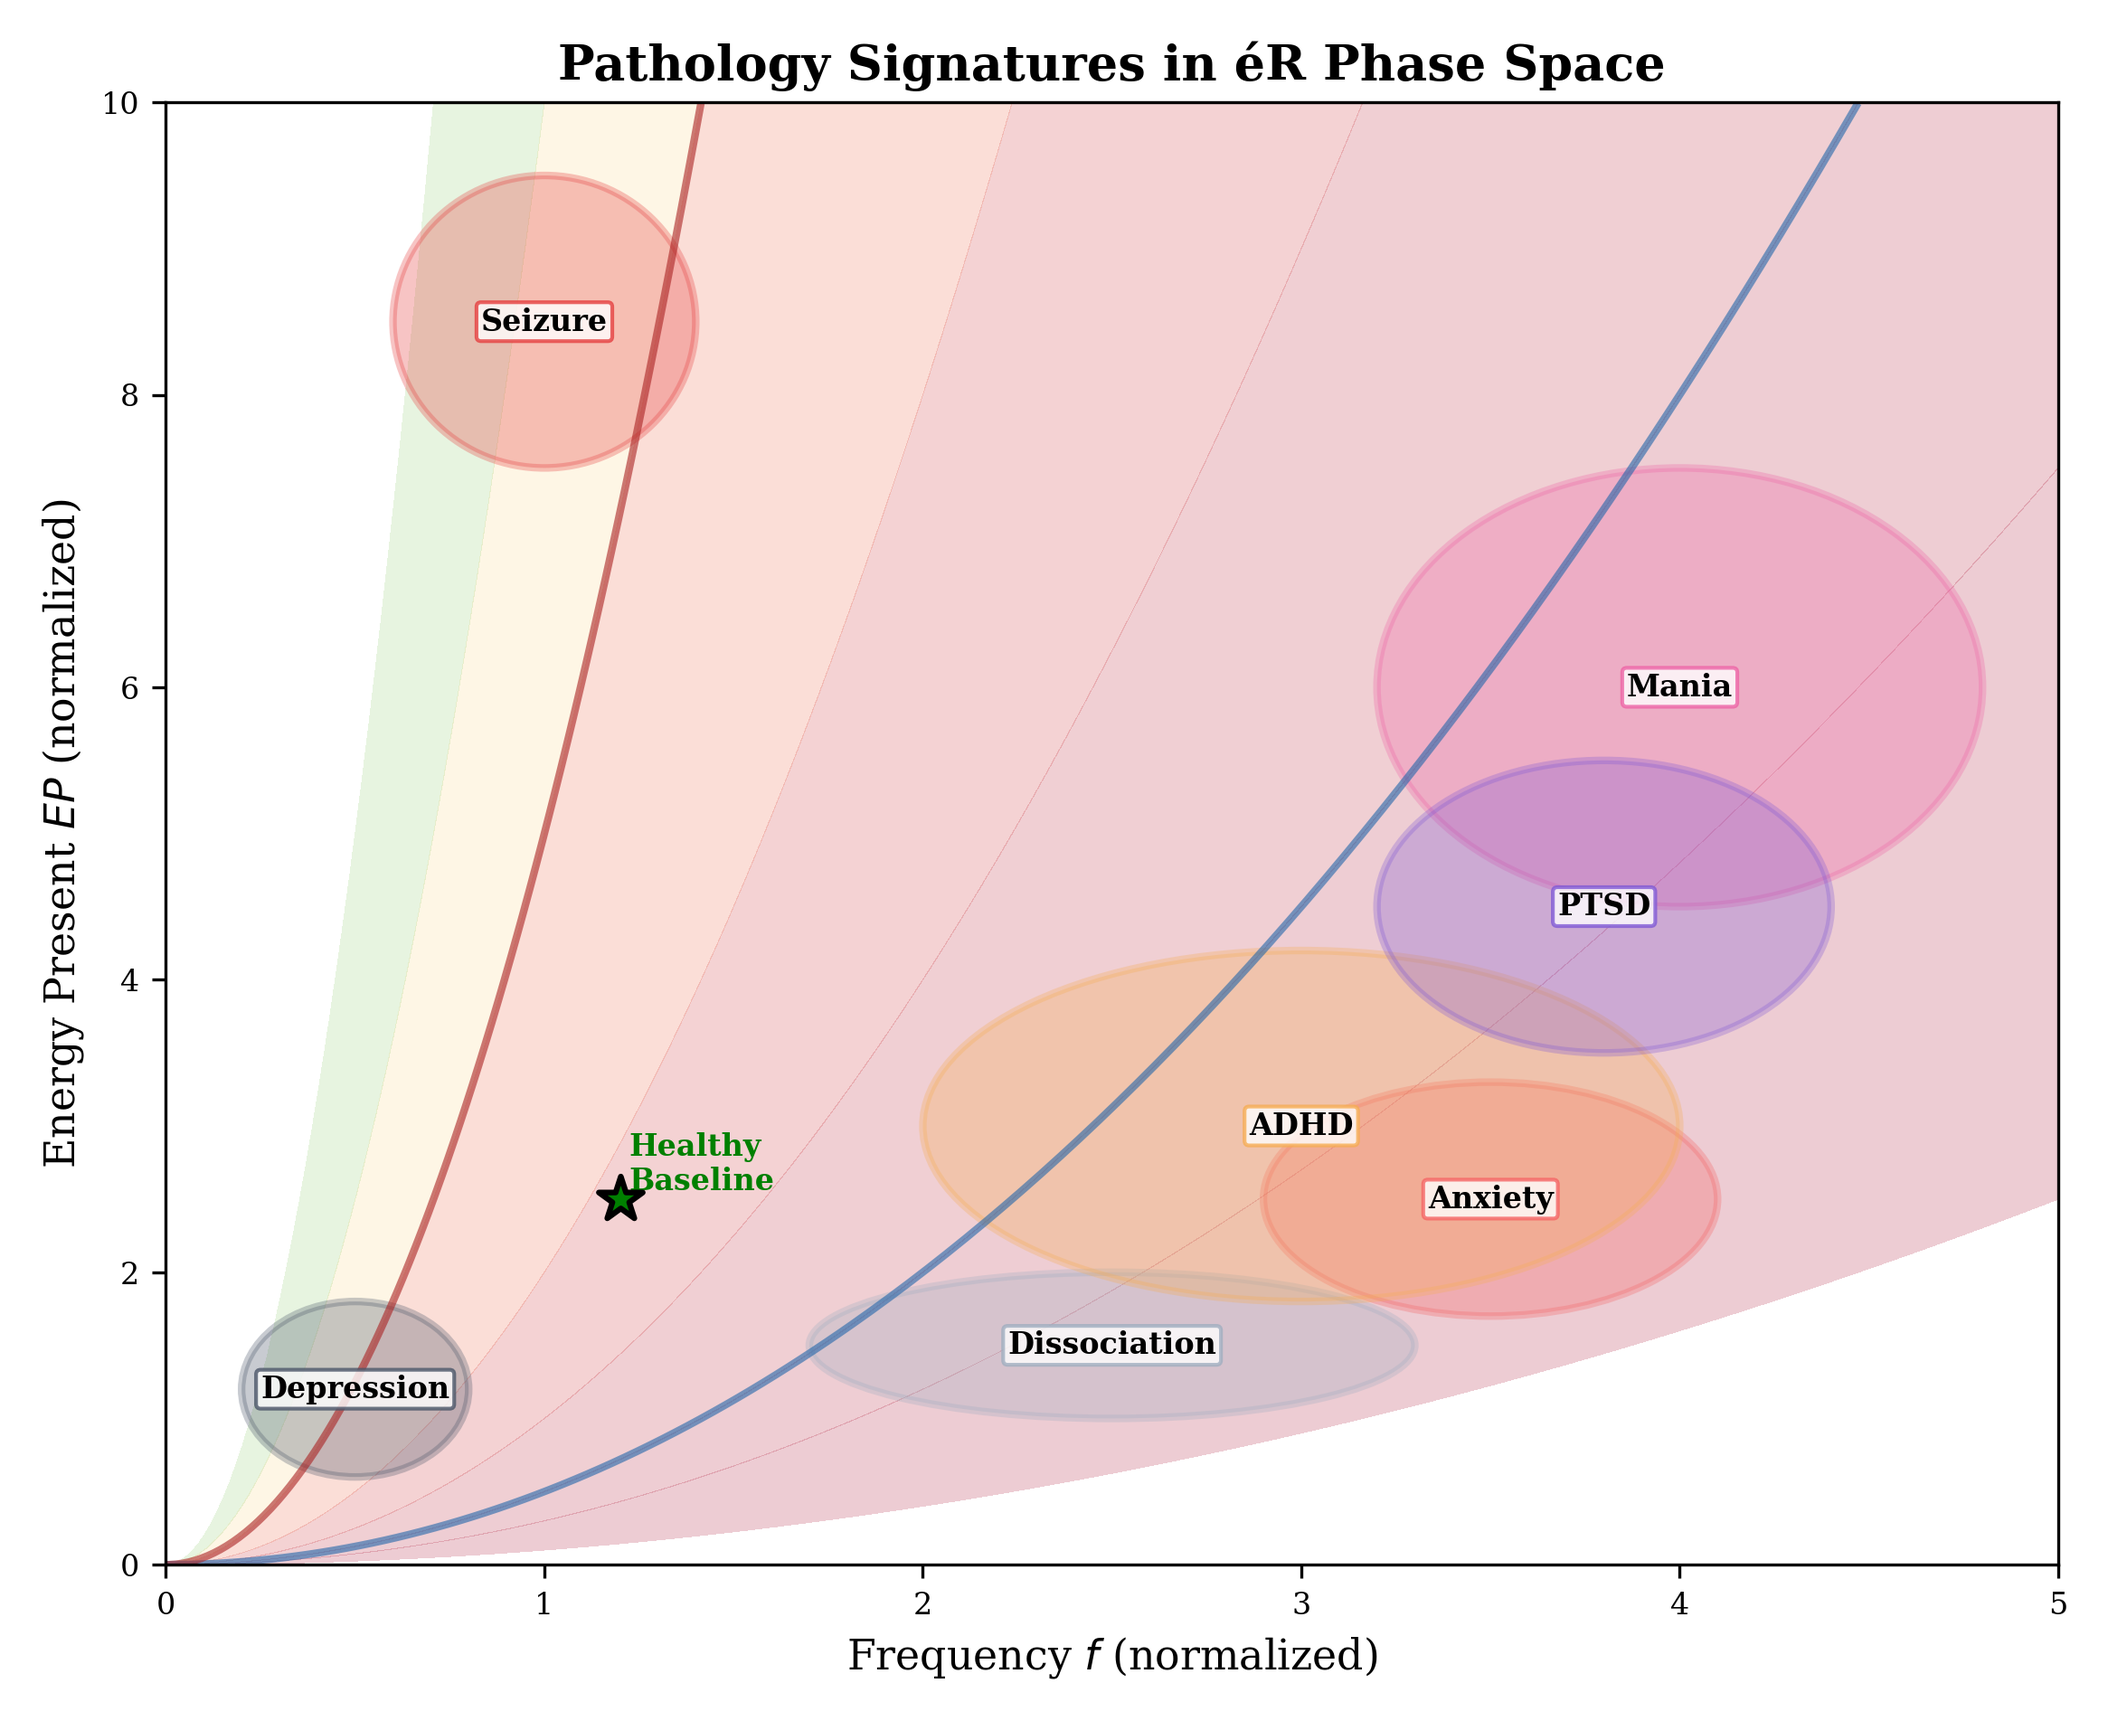
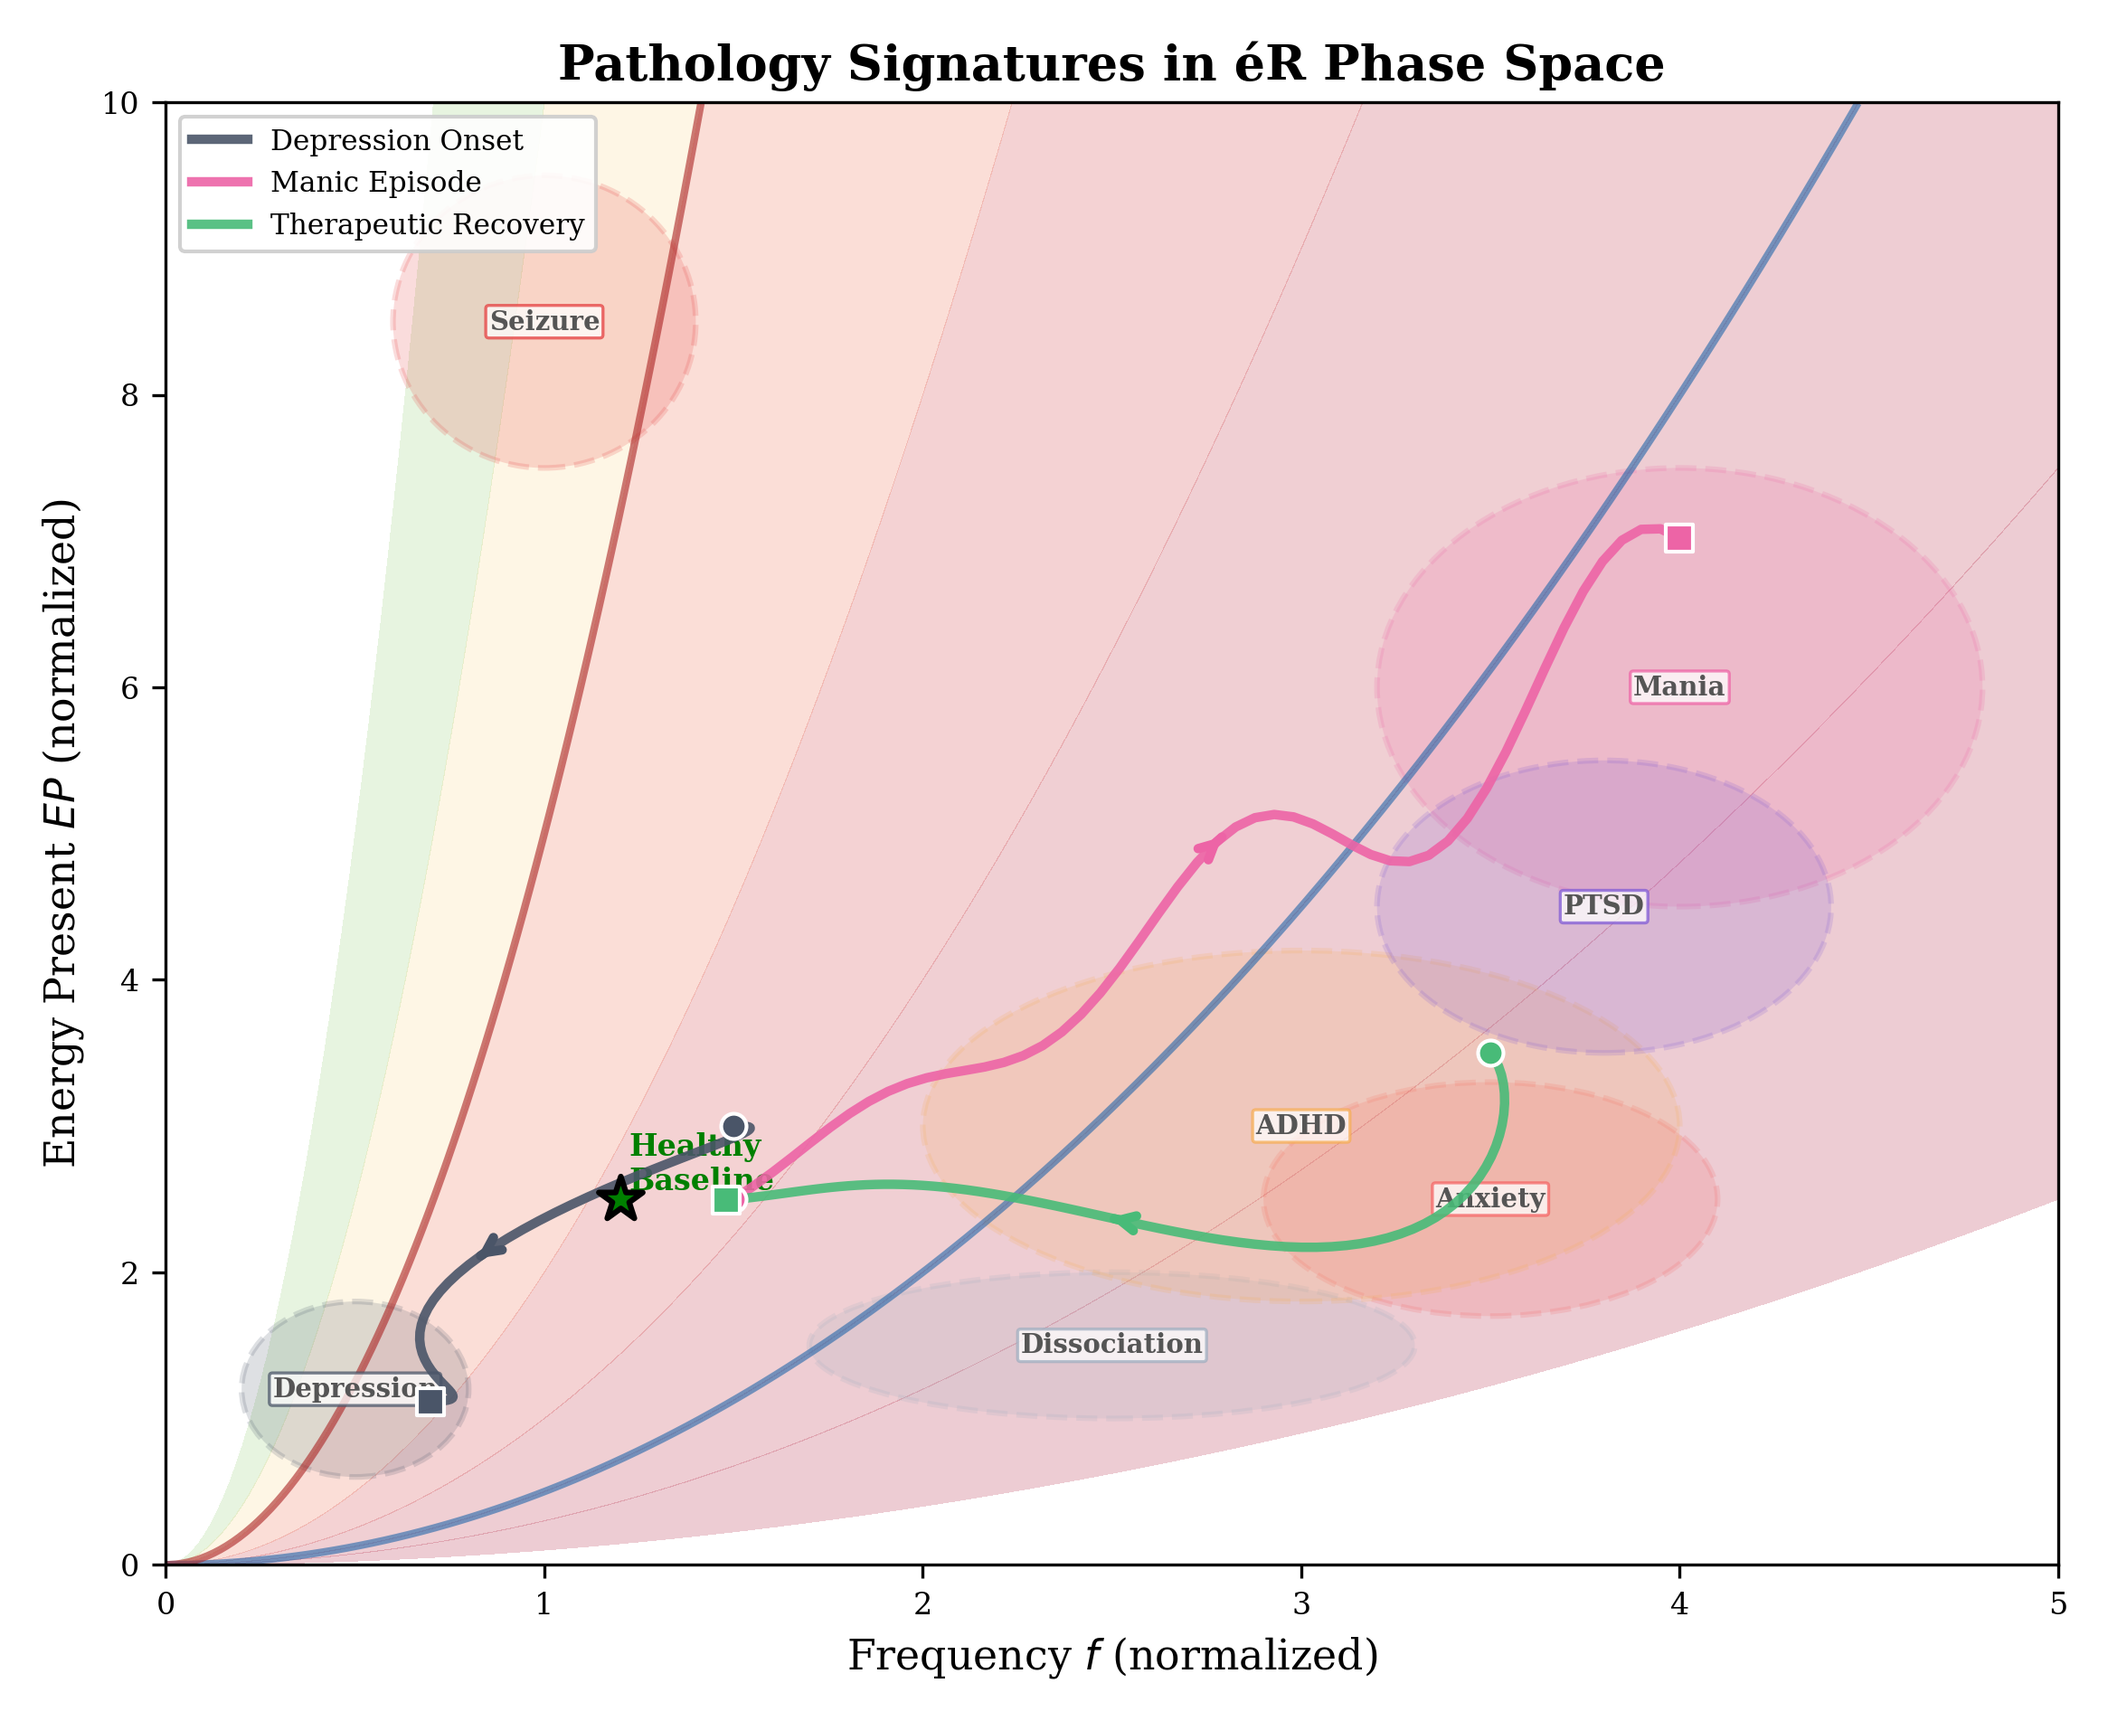
CLT Computational Implementation paper final polish

diff --git a/paper/clt_computational_implementation.tex b/paper/clt_computational_implementation.tex
@@ -16,11 +16,12 @@
 \title{Computational Implementation of Cosmic Loom Theory:\\Open-Source Tools for Consciousness Research}
 
 \author[1]{Rex Fraterne}
-\author[2]{Claude AI}
+\author[2]{Claude Opus 4.5}
 \affil[1]{NuTech / The Infinite Kingdom, Independent Research}
-\affil[2]{Anthropic}
+\affil[2]{Anthropic, AI Research}
 
-\date{January 2026}
+\date{January 2026\\[4pt]
+\normalsize Version: v1.0 (Zenodo release)}
 
 \begin{document}
 
@@ -29,6 +30,8 @@
 \begin{abstract}
 Understanding consciousness remains one of science's deepest challenges, yet most theoretical frameworks lack computational tools that translate formal postulates into testable, quantitative predictions. We present the first comprehensive open-source software suite implementing Cosmic Loom Theory (CLT) v1.1, a field-based framework that models biological consciousness as emergent coherence across coupled energetic substrates. The toolkit comprises five integrated modules: (1)~an Energy Resistance (\'{e}R) phase space visualizer mapping the viable consciousness window $0.5 \leq \text{\'{e}R} \leq 5.0$ from biological measurements; (2)~two-dimensional and three-dimensional Loomfield wave simulators solving the CLT wave equation via leapfrog finite-difference schemes with Mur absorbing boundary conditions; (3)~a Hodgkin--Huxley bioelectric network simulator with gap-junction coupling and morphogenetic pattern dynamics; (4)~a biophoton field simulator capturing four distinct emission regimes---Poissonian, coherent, squeezed, and chaotic---with Kuramoto phase synchronization; (5)~a microtubule quantum coherence simulator modeling 13-protofilament lattices across four oscillation scales with Floquet-driven time-crystal dynamics; and (6)~a DNA constraint engine governing gene expression, epigenetic modulation, and species-specific viable windows. Key results demonstrate that Loomfield coherence collapses under perturbation and recovers through hysteresis, bioelectric gap-junction networks spontaneously form morphogenetic patterns, biophoton Fano factor signatures distinguish healthy from pathological states, and microtubule triplet-of-triplets resonance at golden-ratio frequency ratios ($1:\varphi:\varphi^2$) is selectively disrupted by anesthetic modeling. All simulators produce the unified consciousness observable $C_\text{bio}$ and feed into a 14-metric LoomSense integration layer. The suite includes 277 automated tests across nine modules with continuous integration. All code is freely available at \texttt{github.com/DaKingRex/Cosmic-Loom-Theory} under an open-source license, providing the research community with reproducible tools for investigating consciousness as a physical phenomenon.
 \end{abstract}
+
+\noindent\textbf{Keywords:} consciousness, computational modeling, Loomfield, Energy Resistance, bioelectric fields, biophoton emission, microtubule time crystals, coherence metrics, open-source software, multi-substrate integration, falsifiability
 
 \tableofcontents
 \newpage
@@ -66,7 +69,7 @@ designed to address.
 
 \subsection*{Cosmic Loom Theory: A Brief Overview}
 
-Cosmic Loom Theory (CLT) v1.1 \citep{fraterne2026clt} proposes that
+Cosmic Loom Theory (CLT) v1.1 \citep{fraterne2026theory} proposes that
 consciousness is not a product of localized neural computation, but rather an
 emergent property of \emph{coherent dynamics} within a biological system's
 physical substrates. The theory introduces the \emph{Loomfield},
@@ -119,9 +122,9 @@ CLT. The platform provides:
 
     \item \textbf{Biological substrate simulators} for all four CLT substrates:
     bioelectric field dynamics (single-layer and multi-layer tissue models with
-    Hodgkin-Huxley ion channels and gap junction coupling), biophoton emission
+    Hodgkin--Huxley ion channels and gap junction coupling), biophoton emission
     (Poissonian, coherent, squeezed, and chaotic modes with metabolic state
-    coupling), microtubule time crystal dynamics (multi-scale Kuramoto
+    coupling), microtubule time-crystal dynamics (multi-scale Kuramoto
     oscillators with Floquet driving and anesthesia modeling), and DNA
     constraint systems (genetic/epigenetic modulation of coherence capacity
     across developmental stages and species).
@@ -185,7 +188,7 @@ This section presents the mathematical framework underlying the computational
 platform. We describe three interconnected constructs: the Loomfield wave
 equation (\S2.1), the Energy Resistance phase space (\S2.2), and the coherence
 metrics that connect both to measurable observables (\S2.3). Full derivations
-appear in CLT v1.1 \citep{fraterne2026clt}; here we emphasize the forms
+appear in CLT v1.1 \citep{fraterne2026theory}; here we emphasize the forms
 implemented in software.
 
 \subsection{The Loomfield Equation}
@@ -195,7 +198,7 @@ scalar field $L(\mathbf{r}, t)$ defined over the spatial extent of a biological
 system. The Loomfield is an \emph{effective field}: it does not posit new
 fundamental physics, but rather provides a coarse-grained description of the
 coherent dynamics generated collectively by the biological substrates. This
-approach follows the tradition of effective field theories in condensed matter
+approach follows the tradition of effective field theories in condensed-matter
 physics, where macroscopic order parameters emerge from microscopic degrees of
 freedom without requiring a reduction to those degrees of freedom
 \citep{anderson1972more}.
@@ -566,7 +569,7 @@ visually immediate (Figs.~\ref{fig:er-concept}--\ref{fig:er-pathology}):
 \begin{figure}[htbp]
     \centering
     \includegraphics[width=0.9\textwidth]{paper_figures/fig_04_er_pathology_zones.png}
-    \caption{Pathology zones and clinical trajectories in \'eR phase space. Seven pathological conditions---depression, anxiety, mania, seizure, dissociation, ADHD, and PTSD---are represented as colored ellipses displaced from the viable window toward the chaos or rigidity boundaries. Arrows indicate characteristic recovery trajectories as clinical interventions restore the system to the viable window.}
+    \caption{Pathology zones and clinical trajectories in \'eR phase space. Seven pathological conditions---depression, anxiety, mania, seizure, dissociation, ADHD, and PTSD---are represented as dashed ellipses displaced from the viable window toward the chaos or rigidity boundaries. Three representative clinical trajectories illustrate decompensation and recovery dynamics: depression onset (declining energy and frequency toward the rigidity boundary), manic episode (spiking energy and frequency toward the chaos boundary), and therapeutic recovery (spiraling return from the anxiety region to the viable window). Circles mark trajectory start points; squares mark endpoints; arrows indicate direction of travel.}
     \label{fig:er-pathology}
 \end{figure}
 
@@ -613,7 +616,7 @@ energy dissipation that prevents unbounded growth without artificially
 suppressing coherent dynamics.
 
 \paragraph{Boundary conditions.}
-Mur's first-order absorbing boundary condition~\citep{hodgkinhuxley1952} is
+Mur's first-order absorbing boundary condition~\citep{mur1981absorbing} is
 applied on all four domain edges to simulate an open, non-reflecting
 boundary.  For the left edge, for example:
 %
@@ -2023,9 +2026,7 @@ Welcome to The Infinite Kingdom.
 \section*{Acknowledgments}
 
 The authors thank Seraphina AI for co-authoring the theoretical foundation
-(CLT v1.1) upon which this computational work is built, and Claude AI
-(Anthropic) for substantial contributions to the implementation, testing,
-and documentation of the software platform.
+(CLT v1.1) upon which this computational work is built.
 
 This work was inspired by and builds upon the research of Martin Picard
 (Energetic Resistance Principle), Michael Levin (bioelectric morphogenesis),

diff --git a/paper_figures/generate_all_figures.py b/paper_figures/generate_all_figures.py
@@ -291,21 +291,21 @@ def fig_04_er_pathology_zones():
         valid = ep_line <= 10
         ax.plot(freq[valid], ep_line[valid], color=color, linewidth=2, alpha=0.6)
 
-    # Plot pathology zones as ellipses
+    # Plot pathology zones as ellipses (subdued so trajectories read clearly)
     for name, zone in PATHOLOGY_ZONES.items():
         ellipse = Ellipse(
             (zone['freq_center'], zone['ep_center']),
             width=zone['freq_spread'] * 2,
             height=zone['ep_spread'] * 2,
-            facecolor=zone['color'], alpha=0.3,
-            edgecolor=zone['color'], linewidth=2
+            facecolor=zone['color'], alpha=0.18,
+            edgecolor=zone['color'], linewidth=1.5, linestyle='--'
         )
         ax.add_patch(ellipse)
         ax.text(zone['freq_center'], zone['ep_center'], zone['label'],
-                fontsize=8, fontweight='bold', ha='center', va='center',
-                color='black',
-                bbox=dict(boxstyle='round,pad=0.15', facecolor='white',
-                          alpha=0.8, edgecolor=zone['color']))
+                fontsize=7, fontweight='bold', ha='center', va='center',
+                color='#555555',
+                bbox=dict(boxstyle='round,pad=0.12', facecolor='white',
+                          alpha=0.75, edgecolor=zone['color'], linewidth=0.8))
 
     # Reference: healthy resting state
     healthy = BIOLOGICAL_STATES.get('resting_awake', {})
@@ -315,6 +315,53 @@ def fig_04_er_pathology_zones():
         ax.annotate('Healthy\nBaseline', (healthy['freq'], healthy['ep']),
                     xytext=(0.3, 0.3), textcoords='offset fontsize',
                     fontsize=8, fontweight='bold', color='green')
+
+    # Three representative clinical trajectories (from interactive visualizer)
+    # Kept to three for clarity: one rigidity decompensation, one chaos
+    # decompensation, one recovery path.
+    clinical_trajectories = []
+
+    # 1. Depression onset: gradual decline toward rigidity boundary
+    t = np.linspace(0, 1, 60)
+    ep_dep = 3.0 - 1.8 * t + 0.3 * np.sin(6 * t)
+    freq_dep = 1.5 - 1.0 * t + 0.2 * np.sin(8 * t)
+    clinical_trajectories.append((freq_dep, ep_dep, 'Depression Onset', '#4a5568'))
+
+    # 2. Manic episode: energy and frequency spike toward chaos boundary
+    t2 = np.linspace(0, 1, 50)
+    ep_man = 2.5 + 4.0 * t2 * (1 + 0.2 * np.sin(15 * t2))
+    freq_man = 1.5 + 2.5 * t2
+    clinical_trajectories.append((freq_man, ep_man, 'Manic Episode', '#ed64a6'))
+
+    # 3. Therapeutic recovery: spiraling return to viable window
+    t4 = np.linspace(0, 1, 80)
+    ep_ther = 2.5 + 1.0 * np.exp(-3 * t4) * np.cos(8 * t4)
+    freq_ther = 3.5 - 2.0 * t4 + 0.5 * np.exp(-2 * t4) * np.sin(6 * t4)
+    clinical_trajectories.append((freq_ther, ep_ther, 'Therapeutic Recovery', '#48bb78'))
+
+    for fx, ey, label, color in clinical_trajectories:
+        mask = (fx >= 0) & (fx <= 5) & (ey >= 0) & (ey <= 10)
+        fx_c, ey_c = fx[mask], ey[mask]
+        if len(fx_c) < 3:
+            continue
+        ax.plot(fx_c, ey_c, '-', color=color, linewidth=2.5, alpha=0.9,
+                label=label, zorder=4)
+        # Start marker (circle) and end marker (square)
+        ax.scatter(fx_c[0], ey_c[0], s=45, c=color, marker='o',
+                   edgecolors='white', linewidths=1.0, zorder=6)
+        ax.scatter(fx_c[-1], ey_c[-1], s=55, c=color, marker='s',
+                   edgecolors='white', linewidths=1.0, zorder=6)
+        # Midpoint direction arrow
+        mid = len(fx_c) // 2
+        if mid > 0 and mid < len(fx_c) - 1:
+            dx = fx_c[mid+1] - fx_c[mid-1]
+            dy = ey_c[mid+1] - ey_c[mid-1]
+            ax.annotate('', xy=(fx_c[mid] + dx*0.15, ey_c[mid] + dy*0.15),
+                        xytext=(fx_c[mid], ey_c[mid]),
+                        arrowprops=dict(arrowstyle='->', color=color, lw=2.5),
+                        zorder=5)
+
+    ax.legend(loc='upper left', fontsize=7.5, framealpha=0.9)
 
     ax.set_xlabel('Frequency $f$ (normalized)', fontsize=11)
     ax.set_ylabel('Energy Present $EP$ (normalized)', fontsize=11)
